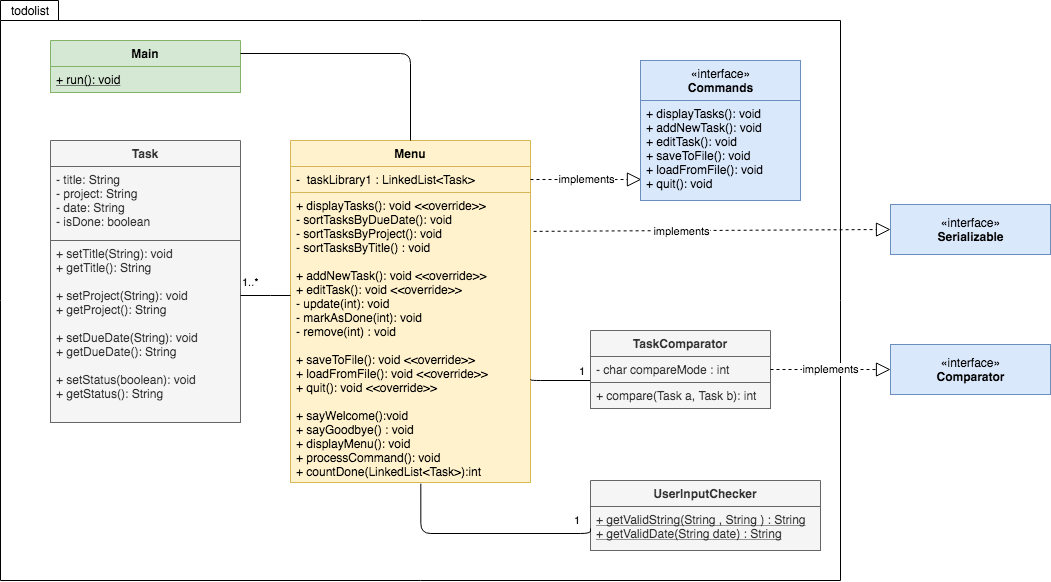
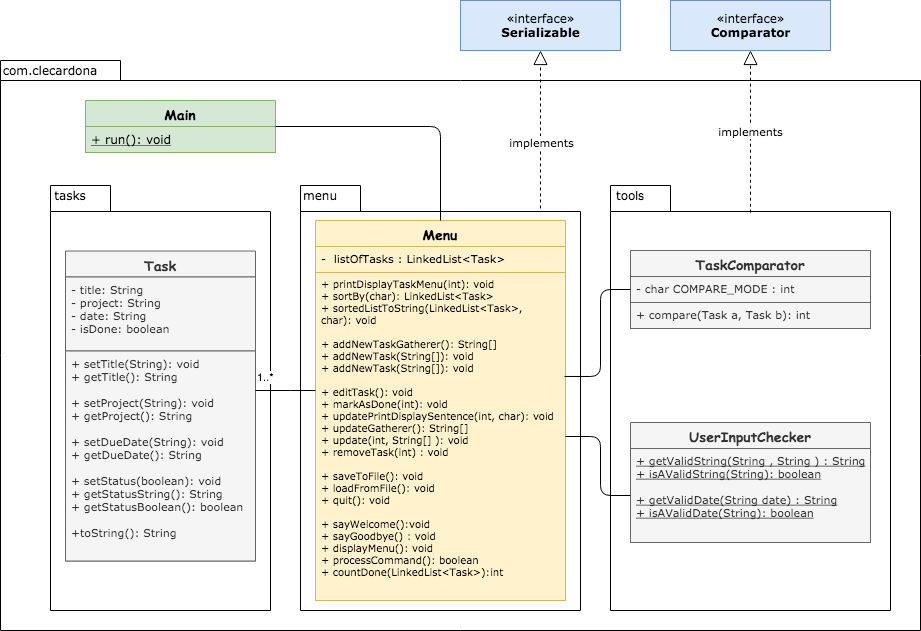
-screenshots updated -class diagram updated -formatting display

diff --git a/src/main/java/com/clecardona/menu/Menu.java b/src/main/java/com/clecardona/menu/Menu.java
@@ -1,7 +1,7 @@
 package com.clecardona.menu;
 
 import com.clecardona.tasks.Task;
-import com.clecardona.tools.Comparator;
+import com.clecardona.tools.TaskComparator;
 import com.clecardona.tools.UserInputChecker;
 
 import java.io.*;
@@ -14,7 +14,7 @@ public class Menu implements Serializable {
     @Serial
     private static final long serialVersionUID = 0L;
 
- ///////////////////fields
+    ///////////////////fields
     private LinkedList<Task> listOfTasks;
 
     /**
@@ -38,6 +38,7 @@ public class Menu implements Serializable {
 ////MAIN MENU
 
 ////displays
+
     /**
      * Prints out the opening message for the user
      */
@@ -77,6 +78,7 @@ public class Menu implements Serializable {
 
 
 ////others
+
     /**
      * Returns the the number of task "done"
      */
@@ -93,6 +95,8 @@ public class Menu implements Serializable {
 
     /**
      * Process a command from main menu by scanning user's input
+     *
+     * @return askedToQuit=true if user selected quit
      */
     public boolean processCommand() {
 
@@ -124,13 +128,14 @@ public class Menu implements Serializable {
     }
 
 ////SORTING MENU
+
     /**
      * Display all tasks  display sorting menu, process sorting by title,project or due date.
      *
      * @param depth : limit of number of recursions allowed.  (recursive method)
      */
     public void printDisplayTaskMenu(int depth) {
-                System.out.println("""
+        System.out.println("""
                    > (1) Sort By Due Date (earlier first)
                    > (2) Sort By Project (A-Z)
                    > (3) Sort By Status (done - todo)
@@ -152,23 +157,23 @@ public class Menu implements Serializable {
 
             switch (userChoice) {
                 case 1 -> {
-                    sortedListToString(sortBy('d'),'d');
+                    sortedListToString(sortBy('d'), 'd');
                     depth++;
                     printDisplayTaskMenu(depth);
                 }
                 case 2 -> {
-                    sortedListToString(sortBy('p'),'p');
+                    sortedListToString(sortBy('p'), 'p');
                     depth++;
                     printDisplayTaskMenu(depth);
                 }
                 case 3 -> {
-                    sortedListToString(sortBy('s'),'s');
+                    sortedListToString(sortBy('s'), 's');
                     depth++;
                     printDisplayTaskMenu(depth);
                 }
-                    case 4 -> System.out.println();
-                    default -> System.out.println("\n Enter valid number");
-                }
+                case 4 -> System.out.println();
+                default -> System.out.println("\n Enter valid number");
+            }
         } catch (InputMismatchException i) {
             System.out.println("\n Enter valid number");
             depth++;
@@ -178,6 +183,7 @@ public class Menu implements Serializable {
 
     /**
      * Sort the task by selected mode
+     *
      * @param mode: the mode selected ('d':due date , 'p':project , 's':status )
      */
     public LinkedList<Task> sortBy(char mode) {
@@ -185,15 +191,15 @@ public class Menu implements Serializable {
         switch (mode) {
 
             case 'p' -> {
-                sortedListOfTasks.sort(new Comparator('p'));
+                sortedListOfTasks.sort(new TaskComparator('p'));
             }
             case 'd' -> {
 
-                sortedListOfTasks.sort(new Comparator('d'));
+                sortedListOfTasks.sort(new TaskComparator('d'));
             }
             case 's' -> {
 
-                sortedListOfTasks.sort(new Comparator('s'));
+                sortedListOfTasks.sort(new TaskComparator('s'));
             }
         }
         return sortedListOfTasks;
@@ -201,31 +207,30 @@ public class Menu implements Serializable {
 
     /**
      * Prints the correct data corresponding to the sorted mode selected
+     *
      * @param list: the sorted list to print
      * @param mode: the mode selected ('d':due date , 'p':project , 's':status )
      */
     public void sortedListToString(LinkedList<Task> list, char mode) {
         System.out.println();
-        String space =" ";// used to format the displayed result
-        int i=1;
+        String space = " ";// used to format the displayed result
+        int i = 1;
 
         for (Task task : list) {
 
             switch (mode) {
                 case 'p' -> {
 
-                    String align = space.repeat(40-task.getProject().length());//formatting
-                    System.out.println(i+". Project: "+task.getProject() + align + task.toString());
+                    String align = space.repeat(40 - task.getProject().length());//formatting
+                    System.out.println(i + ". Project: " + task.getProject() + align + task.toString());
                     i++;
                 }
                 case 'd' -> {
-                    String align = space.repeat(40-task.getDueDate().length());//formatting
-                    System.out.println(i+". Due date: "+task.getDueDate() + align + task.toString());
+                    System.out.println(i + ". Due date: " + task.getDueDate() + space.repeat(10) + task.toString());
                     i++;
                 }
                 case 's' -> {
-                    String align = space.repeat(40-task.getStatusString().length());//formatting
-                    System.out.println(i+". Status: "+task.getStatusString() + align + task.toString());
+                    System.out.println(i + ". Status: " + task.getStatusString() + space.repeat(10) + task.toString());
                     i++;
                 }
             }
@@ -236,6 +241,7 @@ public class Menu implements Serializable {
 
 
 ////ADD MENU
+
     /**
      * Get user input for adding a new task
      *
@@ -259,11 +265,12 @@ public class Menu implements Serializable {
         newData[2] = UserInputChecker.getValidDate(date);
 
         return newData;
-}
+    }
 
     /**
      * Add a new task to the list.
      * boolean isDone is set to false by default when a task is added
+     *
      * @param newData: array returned by addNewTaskGatherer() method.
      */
     public void addNewTask(String[] newData) {
@@ -271,14 +278,15 @@ public class Menu implements Serializable {
     }
 
 
-
 ////EDIT MENU
+
     /**
      * Display all tasks , display edit menu, process action requested ( update(), markAsDone() , remove() )
+     *
      * @param depth : limit of number of recursions allowed.  (recursive method)
      */
     public void editTask(int depth) {
-        System.out.println("Select the task you want to edit");
+        System.out.println("Select the task you want to edit : ");
 
         if (listOfTasks.size() == 0) {
             System.out.println("\n No task found");
@@ -289,6 +297,7 @@ public class Menu implements Serializable {
         }
 
         int index;
+
         for (index = 0; index < listOfTasks.size(); index++) {
 
             System.out.print(" > (" + (index + 1) + ")  ");
@@ -319,7 +328,7 @@ public class Menu implements Serializable {
                 int actionSelected = scanner.nextInt();
                 switch (actionSelected) {
                     case 1 -> {
-                         update(indexSelected,updateGatherer(indexSelected));
+                        update(indexSelected, updateGatherer(indexSelected));
                     }
                     case 2 -> markAsDone(indexSelected);
                     case 3 -> removeTask(indexSelected);
@@ -345,6 +354,7 @@ public class Menu implements Serializable {
 
     /**
      * Marks as done the task at the index passed
+     *
      * @param index : the index of the task to be proceed
      */
     public void markAsDone(int index) {
@@ -355,6 +365,7 @@ public class Menu implements Serializable {
 
 
 ////update
+
     /**
      * Help function that display adapted menu for updateGatherer(int index)
      *
@@ -379,6 +390,7 @@ public class Menu implements Serializable {
 
     /**
      * Gather user choice for updating a task
+     *
      * @param index the index chosen which will be modified
      * @return an array with all the info , null if non modified
      */
@@ -386,26 +398,27 @@ public class Menu implements Serializable {
         Scanner scanner = new Scanner(System.in);
         String[] newData = new String[3];
 
-        updatePrintDisplaySentence(index,'t');
+        updatePrintDisplaySentence(index, 't');
         newData[0] = scanner.nextLine();
 
-        updatePrintDisplaySentence(index,'p');
+        updatePrintDisplaySentence(index, 'p');
         newData[1] = scanner.nextLine();
 
-        updatePrintDisplaySentence(index,'d');
+        updatePrintDisplaySentence(index, 'd');
         newData[2] = scanner.nextLine();
 
 
-    return newData;
+        return newData;
     }
 
     /**
      * Update a task by replacing the fields through Task class setters.
-     * @param index the index chosen which will be modified
+     *
+     * @param index   the index chosen which will be modified
      * @param newData an String array returned by updateGatherer(int index) methods that collects user input.
      *                If an empty String is received, data is not updated.
      */
-    public void update(int index,String [] newData) {
+    public void update(int index, String[] newData) {
 
         if (!(newData[0].isEmpty())) {
             listOfTasks.get(index).setTitle(newData[0]);
@@ -423,7 +436,7 @@ public class Menu implements Serializable {
     }
 
 
-///remove
+    ///remove
     public void removeTask(int index) {
         System.out.println("task ( " + listOfTasks.get(index).getTitle() + " ) successfully removed");
         listOfTasks.remove(index);
@@ -431,6 +444,7 @@ public class Menu implements Serializable {
 
 
 ///save and load ( serialization )
+
     /**
      * save to file taskFile.txt (path:./src/main/resources/taskFile.txt ) using serialization
      */
@@ -476,11 +490,12 @@ public class Menu implements Serializable {
 
 
 ///quit
+
     /**
      * exits the program
      */
     public void quit() {
-    System.exit(0);
+        System.exit(0);
     }
 
 

diff --git a/src/main/java/com/clecardona/tasks/Task.java b/src/main/java/com/clecardona/tasks/Task.java
@@ -68,10 +68,13 @@ public class Task extends Menu implements Serializable {
     }
 
 
-
     @Override
     public String toString() {
-        return getTitle() + " - " + getProject() + " - " + getDueDate() + " - " + getStatusString();
+        String space = " ";// used to format the displayed result
+        String alignTitle = space.repeat(40 - getTitle().length());
+        String alignProject = space.repeat(40 - getProject().length());
+
+        return getTitle() + alignTitle + getProject() + alignProject + getDueDate() + space.repeat(25) + getStatusString();
     }
 
 }

diff --git a/src/main/java/com/clecardona/tools/TaskComparator.java b/src/main/java/com/clecardona/tools/TaskComparator.java
@@ -2,7 +2,7 @@ package com.clecardona.tools;
 
 import com.clecardona.tasks.Task;
 
-public class Comparator implements java.util.Comparator<Task> {
+public class TaskComparator implements java.util.Comparator<Task> {
 
     ///fields
 
@@ -10,7 +10,7 @@ public class Comparator implements java.util.Comparator<Task> {
 
     //// constructor
 
-    public Comparator(char sortModeSelected) {
+    public TaskComparator(char sortModeSelected) {
         this.COMPARE_MODE = sortModeSelected;
     }
 

diff --git a/README.md b/README.md
@@ -113,7 +113,7 @@ Steps to run the **[todolist]** app. After your IDE is open and files imported, 
 ![sorting](img/sorting_date.png)
 
 ### Add a new task 
-#### Status will be set as "to do" 
+#### Status will automatically be set as "to do" 
 ***
 ![add_tasks](img/add_task_menu.png)
 
@@ -122,10 +122,6 @@ Steps to run the **[todolist]** app. After your IDE is open and files imported, 
 ***
 ![edit_tasks](img/edit_task_menu.png)
 
-### Save and quit menu
-
-***
-![quit](img/quit_menu.png)
 
 ## Class Diagram
 
